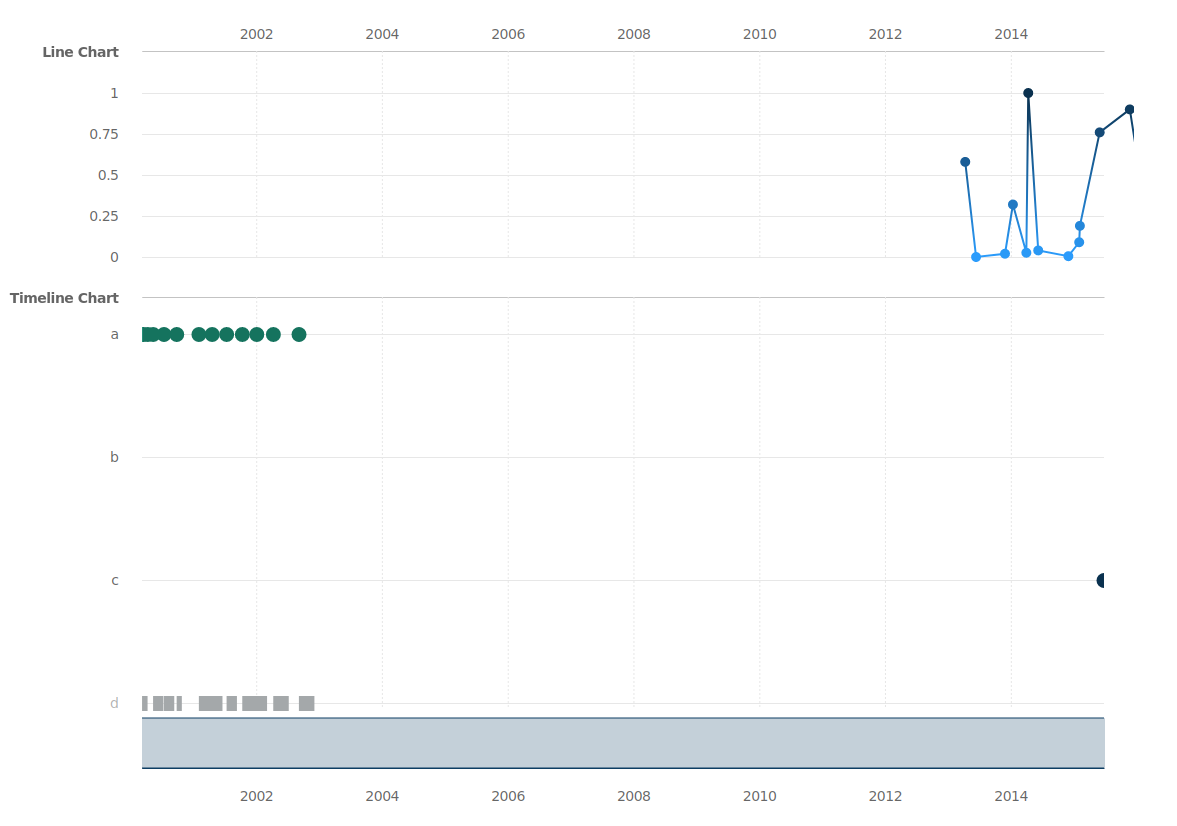
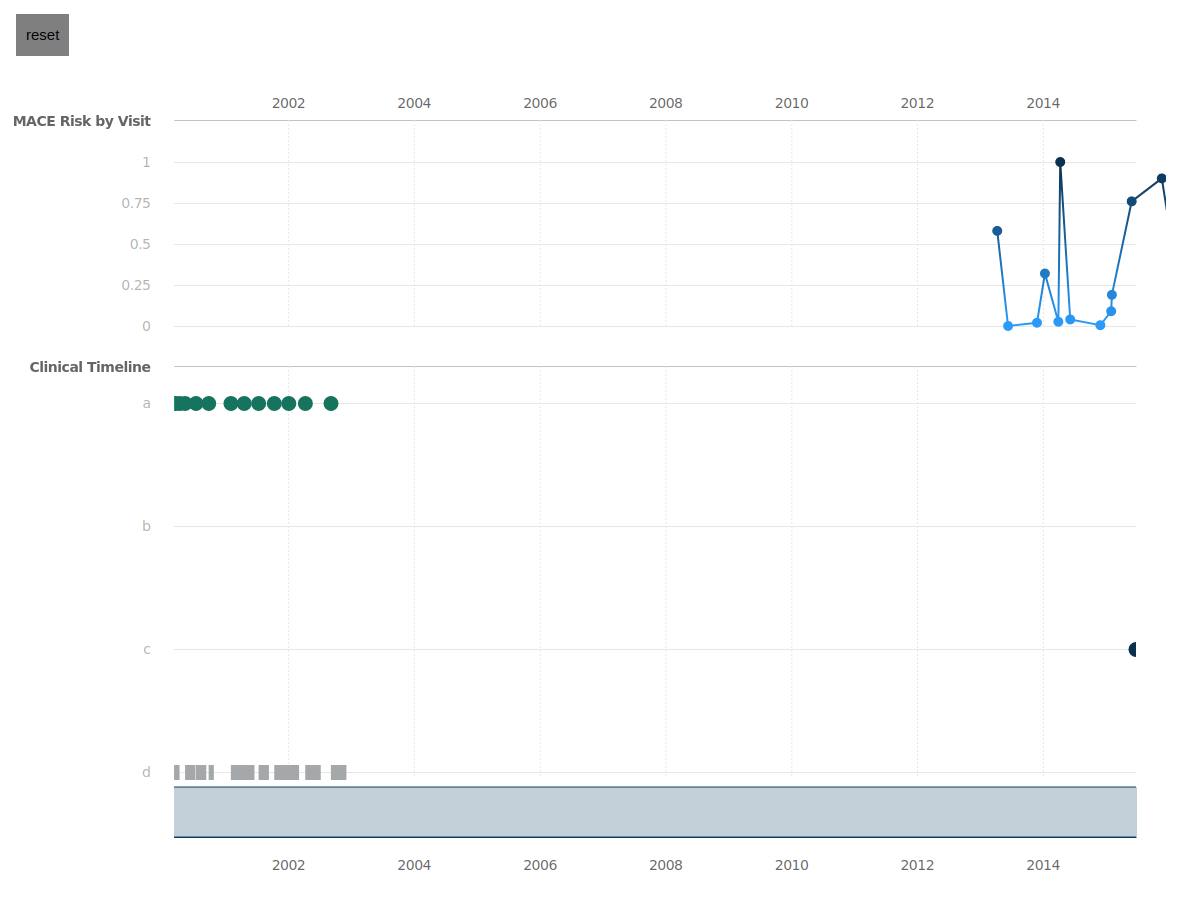
add resetbtn props

diff --git a/src/components/charts/LineMergeTimeline.js b/src/components/charts/LineMergeTimeline.js
@@ -769,6 +769,7 @@ class LineMergeTimeline extends Component {
     const timelineData = timeData;
     const lineChartData = lineDataFormatConvert(lineData);
     const { width, height, overViewAxisHeight, yAxisWidth, startTime, endTime, lineYAxisHeight, defaultPadding, labelStartYPosition, labelLastYPosition } = this.options
+    const { resetBtnId } = this.props
     // Create tooltip
     d3
       .select(`.${styles.timelineChart}`)
@@ -841,7 +842,7 @@ class LineMergeTimeline extends Component {
     this.renderTimelineChart(timelineData, xAxisScale, timelineYAxisScale)  
     this.createTimelineOverView(xAxisScale)
     this.createBrush(xAxisScale, lineScale, xAxis, line, overViewXAxisScale)
-    this.addChartReset('reset', xAxisScale, lineScale, overViewXAxisScale, line, xAxis)
+    this.addChartReset(resetBtnId, xAxisScale, lineScale, overViewXAxisScale, line, xAxis)
 
     // TODO: Code Refactoring Module
   }

diff --git a/README.md b/README.md
@@ -589,12 +589,14 @@
 
     return (
       <div>
+        <button id='reset'>reset button</button>
         <LineMergeTimeline
           timeData={timelineData} 
           lineData={lineData}
           chartWidth={1200}
           chartHeight={835}
           brushEvent={eventHandler}
+          resetBtnId={'reset'}
         />
       </div>
     )
@@ -610,3 +612,4 @@
   | chartWidth | Number | 1200 | Entire Chart Width |
   | chartHeight | Number | 835 | Entire Chart Height |
   | brushEvent | Function |    | Timeline Brush EventHandler |
+  | resetBtnId | String |    | Timeline Reset Button Id |
